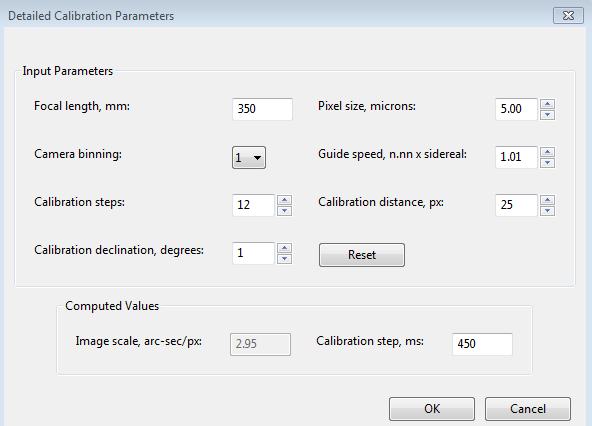
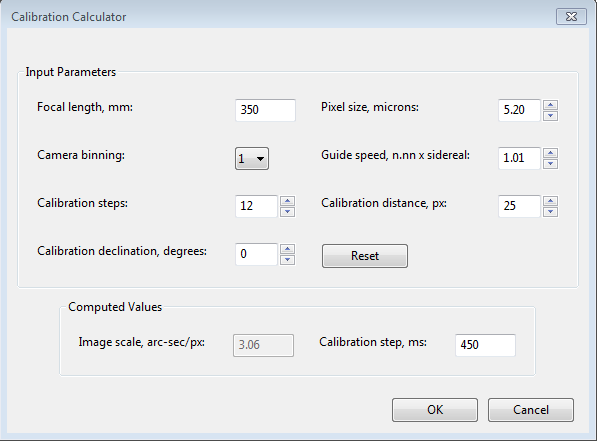
Help revisions and textual changes to some UI controls to get better consistency. Fixes #863

diff --git a/help/Trouble_shooting.htm b/help/Trouble_shooting.htm
@@ -89,7 +89,7 @@ and you are convinced the
 hardware is working properly, you can avoid further alerts of this type
 by setting the
 option to 'Assume Dec orthogonal to RA' in the 'Guiding' tab of the
-Advanced Setup dialog. But you should do this only if the error is
+Advanced Settings dialog. But you should do this only if the error is
 fairly small - otherwise, you are simply ignoring a serious problem.
 &nbsp; </li><li><span style="font-weight: bold;">Questionable RA and Dec rates</span> - assuming the guide speeds reported by the mount are
 accurate, the measured guide rate for right ascension should be
@@ -190,7 +190,7 @@ it to manageable levels, you should consider choosing uni-directional
 guiding&nbsp;for declination. To do this, you&nbsp;determine
 which way the mount drifts due to polar alignment error and tell PHD2
 to guide only in the opposite direction (see &nbsp;<a href="Advanced_settings.htm#Declination-Uni-directional_guiding">Uni-directional guiding</a>). This is controlled by the 'Dec
-guide mode' control on the'Algorithms' tab of the Advanced Dialog.
+guide mode' control on the'Algorithms' tab of the Advanced Settings dialog.
 &nbsp;For example, if the
 mount tends to drift north overall, restrict guide commands to
 south-only. This is not an ideal solution, obviously, but you can
@@ -333,7 +333,7 @@ really little you can do about them. &nbsp;<br><br>Since
 the recommended practice is to let PHD2 choose the guide star
 ("auto-select"), you should use the available UI controls to help PHD2
 do the best possible job. &nbsp;The Minimum-HFD property on the Guiding
-tab of the Advanced Dialog is probably the most effective&nbsp;tool for
+tab of the Advanced Settings dialog is probably the most effective&nbsp;tool for
 avoiding&nbsp;hot-pixel selection. &nbsp;You should set its value to
 allow use of the smallest and faintest real star your setup can
 produce. &nbsp;You should use the Star Profile tool to measure a
@@ -344,7 +344,7 @@ end of the &nbsp;scale, you should also specify&nbsp;the brightest
 pixel value your system will deliver - the ADU value that represents
 saturation. &nbsp;By doing this, you will prevent PHD2 from rejecting
 stars that have a flattened profile but aren't really saturated. The
-saturation control resides on the Camera tab of the Advanced Dialog and
+saturation control resides on the Camera tab of the Advanced Settings dialog and
 is part of a control group labeled 'Star Saturation Detection'.
 &nbsp;Choose the option for 'Saturation by Max-ADU value', then set the
 value for your system. &nbsp;If you have an 8-bit camera, saturation
@@ -367,7 +367,7 @@ issues with the mount or other hardware. Blindly changing guiding
 parameters almost never solves these problems and quite often makes
 things worse. &nbsp;You have several options for restoring the settings
 to their default values: <br><ol><li>On the 'Algorithm' tab of the
-Advanced Dialog, you can individually reset parameters by looking at
+Advanced Settings dialog, you can individually reset parameters by looking at
 the tool-tip for each field. &nbsp;Hover your mouse cursor over the
 field and the default value will be displayed. &nbsp;Note that this is
 not accurate for the min-move settings, which depend on your image
@@ -403,9 +403,9 @@ the problem. &nbsp;It's worth remembering that we work in
 a&nbsp;hostile
 environment while doing our imaging, and many of the components we use
 are not designed for cold, outdoor conditions. So something that worked
-just last week or last month may no longer be reliable.<br><br>Starting
-with the 2.3 release, PHD2 uses a camera timeout property to protect
-against&nbsp;hang conditions. &nbsp;This property is set in the Camera tab
+just last week or last month may no longer be reliable.<br><br>To
+help detect and work around these kinds of problems, PHD2 uses a camera
+timeout mechanism. &nbsp;This timeout value is set in the Camera tab
 of&nbsp;<a href="Advanced_settings.htm">Advanced Settings</a>. and uses a default value of &nbsp;15 seconds. &nbsp;This means that PHD2 will wait up to 15 seconds <span style="font-style: italic;">after the completion of the exposure</span>
 to receive the image from the camera. &nbsp;This is a very generous
 amount of time and should work well for most cameras.
@@ -417,8 +417,7 @@ high number - even 1000 seconds or more - so that timeout errors are never shown
 vulnerable to apparent hangs in the user interface and erratic guiding
 behavior, but it is a choice you can make for yourself. &nbsp;A larger
 value for the timeout will not create extra delays during normal camera
-operations - once the image is downloaded from the camera, the timer is cancelled and guiding will proceed immediately.<br><br>Here are some diagnostic steps that can help you isolate these kinds of problems, as posted on the PHD2 support forum:<br><br><font style="color: rgb(0, 0, 3);" color="navy" face="Arial" size="2"><span style="font-size: 10pt; font-family: Arial;">Camera timeouts are invariably caused by
-problems at the lowest levels of the system: the USB subsystem on the host
+operations - once the image is downloaded from the camera, the timer is cancelled and guiding will proceed immediately.<br><br>Here are some diagnostic steps that can help you isolate these kinds of problems:<br><br><font class="" style="color: rgb(0, 0, 3);" color="navy"><span style="font-size: 10pt;">Common sources of camera timeout problems are the USB subsystem on the host
 computer, incompatible USB3/USB2 connections, damaged or low-quality USB
 cables, or flakey camera drivers. <span>&nbsp;</span>You
 will probably need to work through a number of scenarios to see what your
@@ -441,15 +440,15 @@ try:</span></font>
 
 
 
-<ol style="margin-top: 0in; color: rgb(0, 0, 3);" start="1" type="1"><li class="MsoNormal"><font face="Arial" size="2"><span style="font-size: 10pt; font-family: Arial;">Make
+<ol class="" style="margin-top: 0in; color: rgb(0, 0, 3);" start="1" type="1"><li class="MsoNormal"><span style="font-size: 10pt;">Make
 sure your computer is running from AC power and that the OS
 can't&nbsp;disable the USB ports for power conservation. Don't run
-other resource-intensive applications while trying to image.</span></font></li><li class="MsoNormal"><font face="Arial" size="2"><span style="font-size: 10pt; font-family: Arial;">Bin the guide camera to reduce the size of the downloaded guider images</span></font></li><li class="MsoNormal"><font face="Arial" size="2"><span style="font-size: 10pt; font-family: Arial;">Adjust the USB usage limit of the camera if the camera driver supports
-     that option</span></font></li><li class="MsoNormal"><font face="Arial" size="2"><span style="font-size: 10pt; font-family: Arial;">Use sub-frames in PHD2</span></font></li><li class="MsoNormal"><font face="Arial" size="2"><span style="font-size: 10pt; font-family: Arial;">If you&#8217;re running Windows, you can use a Microsoft tool to
+other resource-intensive applications while trying to image.</span></li><li class="MsoNormal"><span style="font-size: 10pt;">Bin the guide camera to reduce the size of the downloaded guider images</span></li><li class="MsoNormal"><span style="font-size: 10pt;">Adjust the USB usage limit of the camera if the camera driver supports
+     that option</span></li><li class="MsoNormal"><span style="font-size: 10pt;">Use sub-frames in PHD2</span></li><li class="MsoNormal"><span style="font-size: 10pt;">If you&#8217;re running Windows, you can use a Microsoft tool to
      map out how the various USB ports are tied to the USB controllers in the
      computer. <span>&nbsp;</span>Then you can try to
-     isolate the two cameras on separate USB buses. <span>&nbsp;</span></span></font></li><li class="MsoNormal"><font face="Arial" size="2"><span style="font-size: 10pt; font-family: Arial;">Try using a different camera driver (e.g. an ASCOM driver) if one
-     is available</span></font></li></ol><h3><a name="Problems-_Poor_Guiding"></a>Poor Guiding Performance&nbsp;</h3>Once
+     isolate the two cameras on separate USB buses. <span>&nbsp;</span></span></li><li class="MsoNormal"><span style="font-size: 10pt;">Try using a different camera driver (e.g. an ASCOM driver) if one
+     is available</span></li></ol><h3><a name="Problems-_Poor_Guiding"></a>Poor Guiding Performance&nbsp;</h3>Once
 you've gotten everything running, you will probably get reasonably good
 guiding results almost immediately. You will have to decide what
 "good enough" means, and everyone's standard is likely to be different.
@@ -530,7 +529,7 @@ was actually slewing isn't known to PHD2. &nbsp;Assuming you didn't
 mistakenly slew the scope with guiding active, there is probably a
 timing problem in the driver. &nbsp;If you want to sidestep the problem
 temporarily, you can disable the logic to check for slewing - go into
-the 'Guiding' tab of the brain dialog, and un-check the box that says
+the 'Guiding' tab of the Advanced Settings dialog, and un-check the box that says
 "Stop guiding when mount slews." &nbsp;This will let you continue
 guiding, but the results might be suspect. &nbsp;The debug log should
 provide the details needed to describe the problem to the author of the
@@ -553,7 +552,7 @@ all.
 north or south directions, the cumulative uncorrected error will
 eventually reach a point that triggers the alert. &nbsp;Or you may be
 encountering "runaway" Dec guiding because the setting for 'reverse Dec
-output after meridian flip' (Advanced Dialog/Guiding tab) is incorrect.
+output after meridian flip' (Advanced Settings/Guiding tab) is incorrect.
 These sorts of
 problems will require some diagnosis and simply
 increasing the maximum-duration limits will not help.<br><h3><a name="Log_analysis"></a>Log Analysis</h3>Any

diff --git a/help/Tools.htm b/help/Tools.htm
@@ -28,7 +28,7 @@ adaptive optics device attached, you'll see separate move buttons for
 both the AO and the secondary mount. &nbsp;Each time you press the button, a pulse of the&nbsp;duration
 specified in the 'Guide Pulse Duration' field will
 be sent. &nbsp;The default value is the 'calibration step-sze' set in
-the Advanced Options dialog. &nbsp;If you are debugging mount/calibration
+the Advanced Settings dialog. &nbsp;If you are debugging mount/calibration
 problems in the daytime, listen to (rather than watch) your mount to determine if it is getting
 the commands from <span style="font-style: italic;">PHD2</span>. The idea here is just to figure out if the
 mount is responding
@@ -78,10 +78,10 @@ sub-par results. &nbsp;You can use the&nbsp;<a href="Visualization.htm#Star_Prof
 to examine the properties of the selected star, however it was chosen.
 &nbsp;To get the best results from&nbsp;Auto-Select, you should
 definitely use either a bad-pixel map or dark library and specify a
-Min-HFD value (Advanced Dialog/Guiding tab) to reduce the
+Min-HFD value (Advanced Settings/Guiding tab) to reduce the
 likelihood of PHD2 mistakenly choosing a hot pixel. &nbsp;It also works
 better if you set the option to measure saturation by Max-ADU value
-(Advanced Dialog/Camera tab), assuming you know or can determine the
+(Advanced Settings/Camera tab), assuming you know or can determine the
 maximum ADU value of your camera. &nbsp;For example, a 16-bit guide
 camera will have maximum ADU values approaching 65000.
 <h3><a name="Calibration_Details"></a>Calibration&nbsp;Details</h3>Most of the calibration-related windows, including calibration sanity-checks, will open a window that looks something like this:<br><br><img style="width: 763px; height: 421px;" alt="" src="Calib_Review.png"><br><br>The
@@ -125,7 +125,7 @@ functions using the 'Modify Calibration' sub-menu under the 'Tools' menu. &nbsp;
 calibration-related items are&nbsp; shown there, namely the options to
 clear the current data or to enter calibration data manually. &nbsp;The
 "clear" option accomplishes the same thing as the 'Clear calibration'
-checkbox in the Advanced Dialog - it will force a recalibration
+checkbox in the Advanced Settings dialog - it will force a recalibration
 whenever guiding is resumed. &nbsp;The 'Enter calibration data'
 option&nbsp;should be used&nbsp;only under
 very unusual circumstances and only if you're sure you know what you're
@@ -186,7 +186,7 @@ dithering, you
 can't specify the maximum amount directly - you are perhaps limited to
 choices like small/medium/large and the max dither amounts will have
 preset values.&nbsp; For that reason, PHD2 has a dither scaling
-parameter in the 'Global' tab of the Brain dialog.&nbsp; It is
+parameter in the 'Global' tab of the Advanced Settings dialog.&nbsp; It is
 basically a multiplier term that lets you adjust the range of dither
 amounts that are possible.&nbsp; So a scale factor of 1 doesn't change
 the
@@ -232,7 +232,7 @@ directions until the dither and settling are completed. &nbsp;It will
 then revert to the original north/south-only guiding mode. &nbsp;If you
 don't want this behavior, you should restrict dithering to 'RA-only'.
 &nbsp;All of the PHD2 dither controls are contained on the 'Global' tab
-of the Advanced Dialog.</p><h3><a name="Logging_and_Debug_Output"></a>Logging and Debug Output</h3>
+of the Advanced Settings dialog.</p><h3><a name="Logging_and_Debug_Output"></a>Logging and Debug Output</h3>
 <span style="font-style: italic;">PHD2</span> automatically creates two types of log files: a debug log and a
 guiding log. &nbsp;Both are very useful for different reasons.
 &nbsp;The guide log is intentionally formatted to
@@ -461,7 +461,7 @@ position to track the comet until you disable comet tracking by
 toggling the Enable/Disable button.<br>
 <br>
 You can practice the comet training technique using the built-in
-camera simulator. Check the "Comet" option in the Cam Dialog, and the
+camera simulator. Check the "Comet" option in the Camera Settings dialog, and the
 simulator will display a comet. Use a bookmark to mark the comet's
 starting location, and use the Adjust Lock Position controls to move
 the comet back to the bookmark location.
@@ -676,7 +676,7 @@ generic defaults or from an existing profile. &nbsp;You can also use the
 your equipment configuration. &nbsp;To
 edit the settings in an existing profile, you first select it in the
 equipment profile drop-down list, then click on 'Settings' under the
-'<a name="Manage_Profiles"></a>Manage Profiles' pull-down. &nbsp;This will take you to the 'Brain'
+'<a name="Manage_Profiles"></a>Manage Profiles' pull-down. &nbsp;This will take you to the Advanced Settings
 dialog, where you can make whatever changes you want. &nbsp;Remember
 than profiles are automatically updated anytime settings are changed
 during a <span style="font-style: italic;">PHD2</span> session. Finally, you can import and export
@@ -717,12 +717,14 @@ responsible for having the correct values in place, and you should
 remember that significantly wrong values can result in poor guiding
 results.<br><br><h3><a name="Advanced_Settings_for_the_Simulators"></a>Advanced Settings for the Simulators</h3>
 The device simulators were introduced in the <a href="Basic_use.htm">Basic Use</a>
-section as useful tools&nbsp;for experimenting with <span style="font-style: italic;">PHD2</span> and becoming
+section as useful tools&nbsp;for experimenting with <span style="font-style: italic;">PHD2</span>
+and becoming
 famliar with its features. &nbsp;Remember that you must choose
 'Simulator' as the camera type and 'On-camera' as the mount type in
 order to get the benefits of simulation. &nbsp;As you become more
-interested in the details of the simulation, you can use the 'Cam
-Dialog' button on the main display to adjust the simulation parameters:<br>
+interested in the details of the simulation, you can use the 'Camera
+Settings'&nbsp;button on the main display to adjust the simulation
+parameters:<br>
 <br>
 <img style="width: 775px; height: 428px;" alt="" src="Tools_simulator.png"><br>
 <br>

diff --git a/help/Guide_algorithms.htm b/help/Guide_algorithms.htm
@@ -7,7 +7,7 @@ users. &nbsp;Unless you already have some experience with guiding and
 understand the basics, you should&nbsp;be somewhat cautious about changing
 algorithms. &nbsp;However, you may have some special circumstances that
 require changes or you may simply want to experiment with the different
-algorithm choices. &nbsp;The Advanced Dialog settings in <span style="font-style: italic;">PHD2</span> make it
+algorithm choices. &nbsp;The Advanced Settings dialog&nbsp;in <span style="font-style: italic;">PHD2</span> makes it
 easy to do that. &nbsp;Each algorithm has a set of parameters that
 controls how observed changes in guide star position (star deflections)
 are translated into guiding commands that are&nbsp;most likely to restore
@@ -241,11 +241,11 @@ accuracy.<span style="">&nbsp; </span>The algorithm uses separate
 time-scales for characterizing the behavior of the system: </p>
 
 
-<p class="MsoListBullet"><o:p>&nbsp;</o:p><span style="font-family: Symbol;"><span style="">·<span style="font-family: &quot;Times New Roman&quot;; font-style: normal; font-variant: normal; font-weight: normal; font-size: 7pt; line-height: normal; font-size-adjust: none; font-stretch: normal;">&nbsp;&nbsp;&nbsp;&nbsp;&nbsp;&nbsp;&nbsp;</span></span></span>Short-term: for high-frequency errors such as
-those caused by gear roughness or seeing<br><span style="font-family: Symbol;"><span style="">·<span style="font-family: &quot;Times New Roman&quot;; font-style: normal; font-variant: normal; font-weight: normal; font-size: 7pt; line-height: normal; font-size-adjust: none; font-stretch: normal;">&nbsp;&nbsp;&nbsp;&nbsp;&nbsp;&nbsp;&nbsp;&nbsp;</span></span></span>Medium-term: <span style="">&nbsp;</span>for residual periodic errors, typically occurring
-at intervals less than or equal to the worm period<br><span style="font-family: Symbol;"><span style="">·<span style="font-family: &quot;Times New Roman&quot;; font-style: normal; font-variant: normal; font-weight: normal; font-size: 7pt; line-height: normal; font-size-adjust: none; font-stretch: normal;">&nbsp;&nbsp;&nbsp;&nbsp;&nbsp;&nbsp;&nbsp;&nbsp;&nbsp;</span></span></span>Longer-term: for steady drift and for lower
+<ul><li><o:p></o:p><span style="font-family: Symbol;"><span style=""><span style="font-family: &quot;Times New Roman&quot;; font-style: normal; font-variant: normal; font-weight: normal; font-size: 7pt; line-height: normal; font-size-adjust: none; font-stretch: normal;"></span></span></span>Short-term: for high-frequency errors such as
+those caused by gear roughness or seeing</li><li><span style="font-family: Symbol;"><span style=""><span style="font-family: &quot;Times New Roman&quot;; font-style: normal; font-variant: normal; font-weight: normal; font-size: 7pt; line-height: normal; font-size-adjust: none; font-stretch: normal;"></span></span></span>Medium-term: <span style="">&nbsp;</span>for residual periodic errors, typically occurring
+at intervals less than or equal to the worm period</li><li><span style="font-family: Symbol;"><span style=""><span style="font-family: &quot;Times New Roman&quot;; font-style: normal; font-variant: normal; font-weight: normal; font-size: 7pt; line-height: normal; font-size-adjust: none; font-stretch: normal;"></span></span></span>Longer-term: for steady drift and for lower
 frequency (longer time interval) harmonics that can be caused by the
-interaction of multiple gears in the drive train</p>
+interaction of multiple gears in the drive train</li></ul>
 
 
 
@@ -323,7 +323,7 @@ so the final guide pulse amount is a sum: </p>
 
 
 <p class="MsoNormal"><o:p>&nbsp;</o:p>The &#8216;<b style="">predictive</b> <b style="">gain&#8217;</b> and &#8216;<b style="">reactive</b> <b style="">gain&#8217;</b>
-parameters are exposed in the Advanced Dialog, and their default values for
+parameters are exposed in the Advanced Settings dialog, and their default values for
 these parameters should work well for most mounts.<span style="">&nbsp; </span>You should be conservative about changing
 them because bad choices for these parameters can definitely make your guiding
 worse.</p>

diff --git a/help/Basic_use.htm b/help/Basic_use.htm
@@ -443,7 +443,9 @@ difficulty distinguishing "seeing jitter" from actual guide star
 displacements that need to be corrected. This is particularly
 noticeable if you are guiding with a long focal length setup.&nbsp;
 Of course, the convenience of using longer exposures must be traded off
-against the need for the mount to get frequent corrections.</li>
+against the need for the mount to get frequent corrections. &nbsp;For
+mounts that have too many high-frequency errors in RA, you may need to
+work with 1-second exposures.</li>
 </ol>
 As a starting point,&nbsp;try using exposure durations in the range
 of one to three seconds. &nbsp;If you want to de-select a star without
@@ -451,7 +453,9 @@ choosing another one, you can do a shift-click anywhere on the image display win
 starting with this
 equipment set-up, you'll probably need to focus the guide camera -
 doing so is important for good guiding. &nbsp;You can use&nbsp;the <a href="Visualization.htm#Star_Profile_and_Target_Displays">Star Profile tool</a>
-to help with that process. &nbsp; If you're using a small guide scope,
+to help with that process or whatever other focusing tool you are
+comfortable - a focusing mask, a camera app like SharpCap, etc.. &nbsp;
+If you're using a small guide scope,
 like a finder-scope, the focus may react strongly to small adjustments.
 &nbsp;It's important to spend the time to get a good focus because a
 poorly focused guide star can lead to many other problems. &nbsp;The
@@ -473,17 +477,18 @@ while working within the exposure limits you choose.
 This is a specialized measurement used by PHD2 to determine how well
 the star can be distinguished from the background - it is similar but
 not identical to the signal-to-noise ratio used in photometry.
-&nbsp;The Auto setting is primarily intended for AO users who
+&nbsp;The Auto setting is&nbsp;intended for AO users who
 want to
-minimize exposure time without losing the guide star. It is also useful
-for automated operations where a meridian flip will force the selection
-of a new guide star, and failure to find a bright-enough star will
+minimize exposure time without losing the guide star or for use in
+automated imaging operations. &nbsp; Automation &nbsp;involves slewing
+and subsequent unattended guide star selection,&nbsp;and failure to
+find a bright-enough star will
 cause the automated session to fail. &nbsp;In such cases, a "long"
 exposure time may be preferable to finding no guide star at all.
 &nbsp;The settings to
 control
 Auto-exposure are on the <a href="Advanced_settings.htm#Camera_Tab">Camera Tab</a>
-of the Advanced Dialog. &nbsp;
+of the Advanced Settings dialog. &nbsp;
 <h3><a name="Automatic_Calibration"></a>Automatic
 Calibration</h3>
 <h4>Conventional Mounts</h4>
@@ -570,7 +575,7 @@ degrees or make other major changes to the hardware configuration.
 about +/- 20 degrees of the celestrial equator and high enough in the
 sky to avoid major seeing (turbulence) problems. &nbsp;If you chose
 'auto-restore calibration' when you built your profile or chose that
-option in the Guiding tab of the Advanced Dialog, you can simply
+option in the Guiding tab of the Advanced Settings dialog, you can simply
 connect to your
 gear,&nbsp;choose a guide star, then begin guiding immediately.
 &nbsp;Beginners will probably have better success if they do a fresh

diff --git a/help/Advanced_settings.htm b/help/Advanced_settings.htm
@@ -323,7 +323,7 @@ good to calibrate within about 30 degrees of the celestial equator
 (declination = 0), and to use a calibration step size that will result
 in 8-14&nbsp;steps in each direction. &nbsp; The 'Advanced...' button
 to
-the right of this control will launch a dialog that can help you
+the right of this control will launch a calculator dialog that can help you
 compute an appropriate value (see below)&nbsp;</li><li>'<a name="Auto_restore_calibration"></a>Auto restore calibration' - tells
 <span style="font-style: italic;">PHD2</span> to automatically reload
 the most recent calibration data as soon
@@ -425,7 +425,7 @@ has this problem (highly unlikely). &nbsp; Also,&nbsp; it will
 generally not detect&nbsp;slews that are initiated by the
 hand-controller. &nbsp;In any case, PHD2 will continue to try to track
 the guide star, so slews will typically result in lost-star
-notifications - beeping and flashing of the PHD2 image window.</li></ul><a name="Calculator_auto-step-size"></a>Advanced Calibration Parameters<br><br><img style="width: 592px; height: 426px;" alt="" src="Advanced_calstep_calculator.png"><br><span style="font-size: 10pt; font-family: Arial;"></span><br>
+notifications - beeping and flashing of the PHD2 image window.</li></ul><a name="Calculator_auto-step-size"></a>Advanced Calibration Calculator<br><br><img style="width: 600px; height: 441px;" alt="" src="Advanced_calstep_calculator.png"><br><span style="font-size: 10pt; font-family: Arial;"></span><br>
 To review or change&nbsp;calibration parameters,
 be sure the topmost four edit controls are
 correctly filled in. &nbsp;If you have already specified the focal
@@ -473,7 +473,7 @@ the automatically computed values will usually work well. &nbsp;As long
 as you are getting successful calibrations without alert messages, the
 calibration parameters should be left alone. &nbsp;If you've used the
 new-profile-wizard to build your equipment profile, there's rarely any
-reason to use the 'Advanced" button and the Calibration Parameters
+reason to use the 'Advanced" button and the Calibration Calculator
 dialog.<h3><a name="Algorithms_Tab"></a>Algorithms Tab</h3>
 <span style="font-size: 10pt; font-family: Arial;"></span><img style="width: 633px; height: 610px;" alt="" src="Advanced_algorithms.png"><br><br>
 The algorithms tab can be used to select the guiding algorithms you

diff --git a/help/MainScreen.htm b/help/MainScreen.htm
@@ -75,7 +75,7 @@ results are illusory because PHD2 can generally do a better job of
 selecting a guide star than you can accomplish by eye. &nbsp;As a rule
 of thumb, if you've chosen a star whose name is known to you, it is
 almost certainly too bright to be a good choice as a guide star.</p>
-<p>Next to the gamma slider is the&nbsp;"brain button." &nbsp;This button brings up an <a href="Advanced_settings.htm">Advanced Dialog </a>for making detailed adjustments to <span style="font-style: italic;">PHD2</span>'s
+<p>Next to the gamma slider is the&nbsp;"brain button." &nbsp;This button brings up an <a href="Advanced_settings.htm">Advanced Settings dialog </a>for making detailed adjustments to <span style="font-style: italic;">PHD2</span>'s
 guiding operations. &nbsp;An important
 design goal of the program is to minimize your need to change these
 parameters, but "the brain" is&nbsp;nothing to be feared - there are
@@ -87,11 +87,11 @@ dialog and learn what it can do for you.
 &nbsp; Depending on the particular camera, this button may be enabled
 to provide access to a configuration dialog&nbsp;unique to the camera.
 &nbsp;However, common camera properties such as gain and binning will
-normally be set in the 'Camera' tab of the PHD2 Advanced Dialog.&nbsp;
+normally be set in the 'Camera' tab of the PHD2 Advanced Settings dialog.&nbsp;
 If the button is disabled, any&nbsp;available properties can be set in
-the PHD2 Advanced Dialog. &nbsp;With the newer class of guide cameras,
+the PHD2 Advanced Settings dialog. &nbsp;With the newer class of guide cameras,
 this button is often disabled because it adds no capabilities beyond
-what is available in the PHD2 Advanced Dialog.<br>
+what is available in the PHD2 Advanced Settings dialog.<br>
 <h3><a name="Menus"></a>Menus</h3>The pull-down menus above the main guider display are used to access a variety of functions. &nbsp;These are described in the <a href="Darks_BadPixel_Maps.htm">Darks</a>, <a href="Tools.htm">Tools and Utilities</a><big><big><span style="font-weight: bold;">, </span></big></big>and <a href="Visualization.htm">Visualization&nbsp;</a><span style="font-weight: bold;"></span>sections of this help document.
 <h3><a name="Status_Bar"></a>Status Bar</h3><img style="width: 704px; height: 30px;" alt="" src="Main_Status.png"><br><br>The status bar at the
 bottom of the main window is

diff --git a/scope.cpp b/scope.cpp
@@ -1893,12 +1893,12 @@ ScopeConfigDialogCtrlSet::ScopeConfigDialogCtrlSet(wxWindow *pParent, Scope *pSc
     m_pCalibrationDuration = pFrame->MakeSpinCtrl(GetParentWindow(AD_szCalibrationDuration), wxID_ANY, wxEmptyString, wxDefaultPosition,
         wxSize(width, -1), wxSP_ARROW_KEYS, 0, 10000, 1000, _T("Cal_Dur"));
     pCalibSizer->Add(MakeLabeledControl(AD_szCalibrationDuration, _("Calibration step (ms)"), m_pCalibrationDuration,
-        _("How long a guide pulse should be used during calibration? Click \"Calculate\" to compute a suitable value.")));
+        _("How long a guide pulse should be used during calibration? Click \"Advanced...\" to compute a suitable value.")));
     m_pCalibrationDuration->Enable(enableCtrls);
 
     // create the 'auto' button and bind it to the associated event-handler
     wxButton *pAutoDuration = new wxButton(GetParentWindow(AD_szCalibrationDuration), wxID_OK, _("Advanced...") );
-    pAutoDuration->SetToolTip(_("Click to open the Calibration Parameters Dialog to review or change all calibration parameters"));
+    pAutoDuration->SetToolTip(_("Click to open the Calibration Calculator Dialog to review or change all calibration parameters"));
     pAutoDuration->Bind(wxEVT_COMMAND_BUTTON_CLICKED, &ScopeConfigDialogCtrlSet::OnCalcCalibrationStep, this);
     pAutoDuration->Enable(enableCtrls);
 

diff --git a/myframe.cpp b/myframe.cpp
@@ -498,7 +498,7 @@ void MyFrame::SetupMenuBar()
     m_guideMenuItem->Enable(false);
     m_stopMenuItem = guide_menu->Append(MENU_STOP, _("&Stop\tCtrl-S"), _("Stop looping and guiding"));
     m_stopMenuItem->Enable(false);
-    m_brainMenuItem = guide_menu->Append(MENU_BRAIN, _("&Advanced Settings\tCtrl-A"), _("Advanced parameters"));
+    m_brainMenuItem = guide_menu->Append(MENU_BRAIN, _("&Advanced Settings\tCtrl-A"), _("Advanced Settings"));
     m_cameraMenuItem = guide_menu->Append(MENU_CAM_SETTINGS, _("&Camera Settings"), _("Camera settings"));
     m_cameraMenuItem->Enable(false);
 
@@ -971,7 +971,7 @@ void MyFrame::SetupToolBar()
     MainToolbar->AddControl(Dur_Choice, _("Exposure duration"));
     MainToolbar->AddControl(Gamma_Slider, _("Gamma"));
     MainToolbar->AddSeparator();
-    MainToolbar->AddTool(BUTTON_ADVANCED, _("Advanced parameters"), brain_bmp, _("Advanced parameters"));
+    MainToolbar->AddTool(BUTTON_ADVANCED, _("Advanced Settings"), brain_bmp, _("Advanced Settings"));
     MainToolbar->AddTool(BUTTON_CAM_PROPERTIES, cam_setup_bmp, cam_setup_bmp_disabled, false, 0, _("Camera settings"));
     MainToolbar->EnableTool(BUTTON_CAM_PROPERTIES, false);
     MainToolbar->EnableTool(BUTTON_LOOP, false);

diff --git a/calstep_dialog.cpp b/calstep_dialog.cpp
@@ -58,7 +58,7 @@ static wxSpinCtrlDouble *NewSpinner(wxWindow *parent, int width, double val, dou
 }
 
 CalstepDialog::CalstepDialog(wxWindow *parent, int focalLength, double pixelSize, int binning) :
-    wxDialog(parent, wxID_ANY, _("Detailed Calibration Parameters"), wxDefaultPosition, wxSize(400, 500), wxCAPTION | wxCLOSE_BOX)
+    wxDialog(parent, wxID_ANY, _("Calibration Calculator"), wxDefaultPosition, wxSize(400, 500), wxCAPTION | wxCLOSE_BOX)
 {
     double dGuideRateDec = 0.0; // initialize to suppress compiler warning
     double dGuideRateRA = 0.0; // initialize to suppress compiler warning

diff --git a/advanced_dialog.cpp b/advanced_dialog.cpp
@@ -117,7 +117,7 @@ static void EnableValidators(wxWindow *win)
 }
 
 AdvancedDialog::AdvancedDialog(MyFrame *pFrame) :
-    wxDialog(pFrame, wxID_ANY, _("Advanced setup"), wxDefaultPosition, wxDefaultSize, wxCAPTION | wxCLOSE_BOX),
+    wxDialog(pFrame, wxID_ANY, _("Advanced Settings"), wxDefaultPosition, wxDefaultSize, wxCAPTION | wxCLOSE_BOX),
     m_tip(nullptr),
     m_tipTimer(nullptr)
 {
